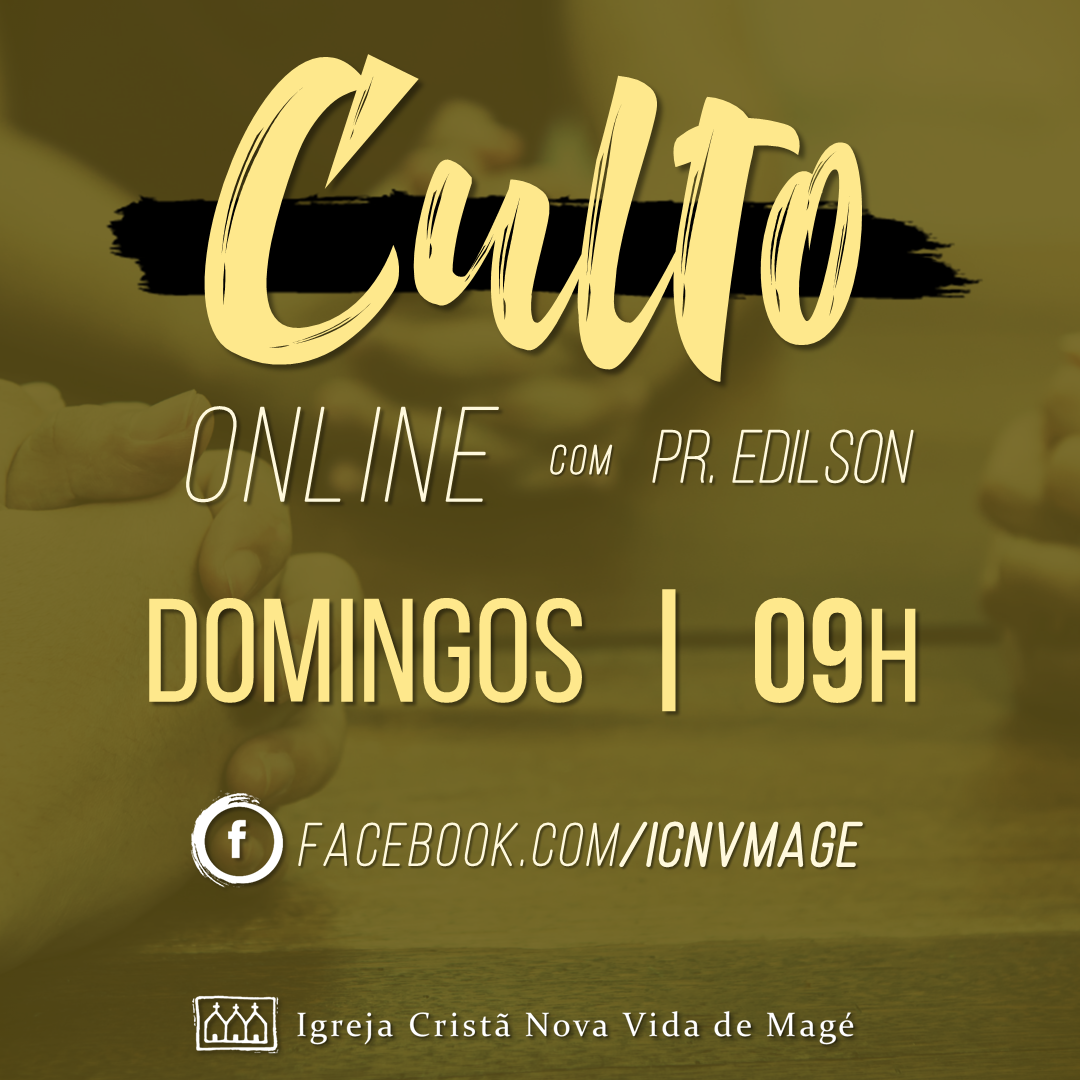
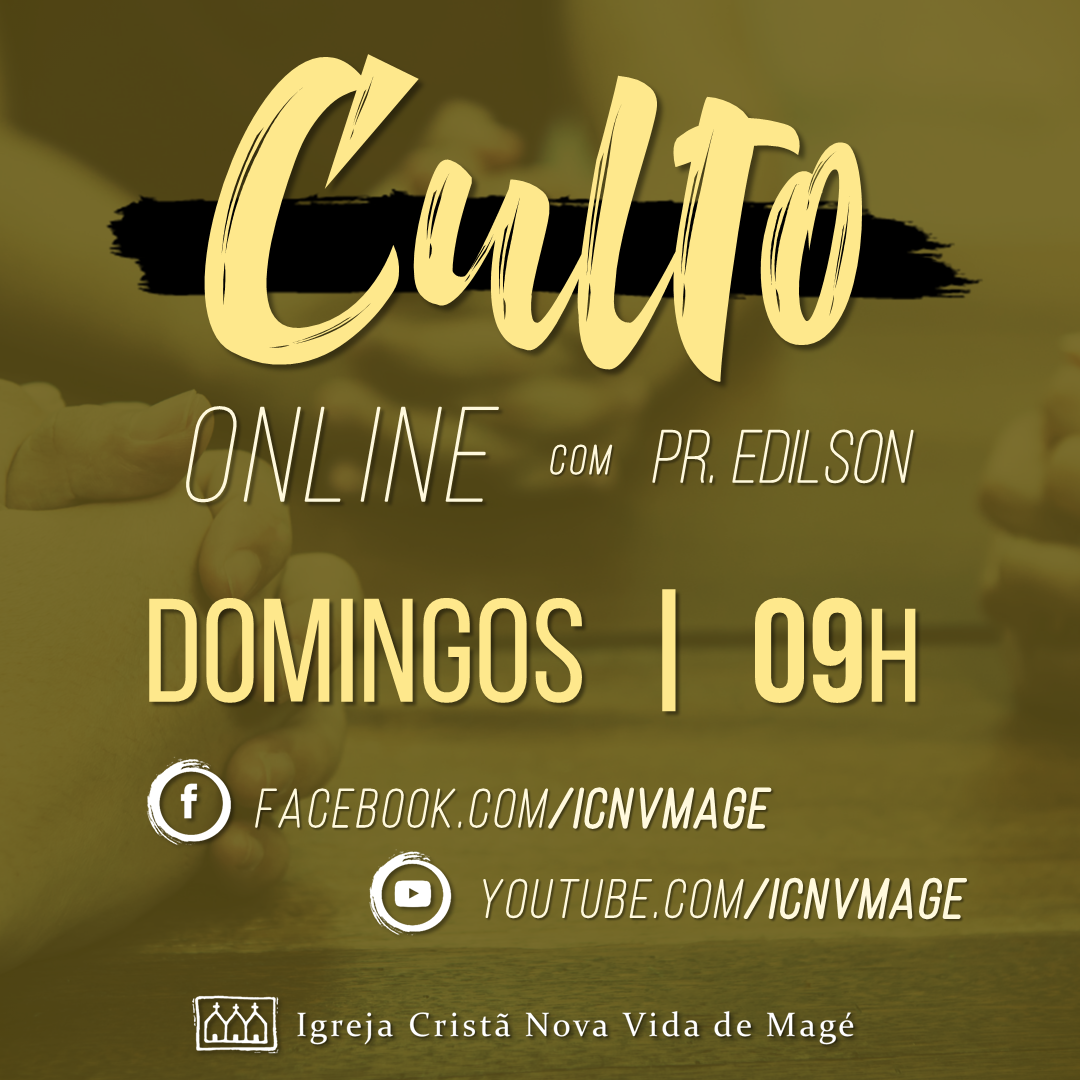
feat: Atualização dos cards news

Changed region(s): [[0.1222, 0.7028, 0.8861, 0.8861]]

diff --git a/novidades.html b/novidades.html
@@ -65,8 +65,9 @@
                             <h4 class="text-left cursor-auto">Cultos <br> Online</h4>
                             <p>Fique ligado nos nossos cultos online.</p>
                             <div style="margin-top: 2rem;">
-                                <a href="https://www.facebook.com/icnvmage/videos/" target="_blank"
-                                    class="contactform-submit novidades"><i class="fa fa-facebook-official mr-2"></i>
+                                <a href="https://www.youtube.com/playlist?list=PL78e91iZsvCFRTlD1BU6DtRtjbw4io54U"
+                                    target="_blank" class="contactform-submit novidades"><i
+                                        class="fa fa-youtube mr-2"></i>
                                     Acessar</a>
                             </div>
                         </div>
@@ -82,8 +83,9 @@
                             <h4 class="text-left cursor-auto">Cultos Dominicais <br> Matutinos</h4>
                             <p>Nas manhãs de domingo estamos aprendendo mais da Palavra de Deus.</p>
                             <div style="margin-top: 2rem;">
-                                <a href="https://www.facebook.com/icnvmage/videos/" target="_blank"
-                                    class="contactform-submit novidades"><i class="fa fa-facebook-official mr-2"></i>
+                                <a href="https://www.youtube.com/playlist?list=PL78e91iZsvCGddBYeFg48MhOGG0tJXUth"
+                                    target="_blank" class="contactform-submit novidades"><i
+                                        class="fa fa-youtube mr-2"></i>
                                     Acessar</a>
                             </div>
                         </div>
@@ -99,8 +101,9 @@
                             <h4 class="text-left cursor-auto">Cultos Dominicais <br> Noturnos</h4>
                             <p>Nas noites de domingo estamos louvando ao Senhor.</p>
                             <div style="margin-top: 2rem;">
-                                <a href="https://www.facebook.com/icnvmage/videos/" target="_blank"
-                                    class="contactform-submit novidades"><i class="fa fa-facebook-official mr-2"></i>
+                                <a href="https://www.youtube.com/playlist?list=PL78e91iZsvCG8tKeCLzAejxQPIwniRBUj"
+                                    target="_blank" class="contactform-submit novidades"><i
+                                        class="fa fa-youtube mr-2"></i>
                                     Acessar</a>
                             </div>
                         </div>
@@ -116,8 +119,9 @@
                             <h4 class="text-left cursor-auto">Cultos <br> Quinta-Feira</h4>
                             <p>Nas noites de quinta-feira estamos louvando ao Senhor.</p>
                             <div style="margin-top: 2rem;">
-                                <a href="https://www.facebook.com/icnvmage/videos/" target="_blank"
-                                    class="contactform-submit novidades"><i class="fa fa-facebook-official mr-2"></i>
+                                <a href="https://www.youtube.com/playlist?list=PL78e91iZsvCGClZPXIQOerX2rHGjMivwT"
+                                    target="_blank" class="contactform-submit novidades"><i
+                                        class="fa fa-youtube mr-2"></i>
                                     Acessar</a>
                             </div>
                         </div>

diff --git a/js/main.js b/js/main.js
@@ -39,6 +39,10 @@ function igp() {
   
     <p style="line-height: 1.5rem;">Sugerimos um aplicativo que conta histórias bíblicas e tem atividades. Clique no link abaixo para acessar <i class="fa fa-hand-o-down"></i></p> 
   
-    <p style="line-height: 1.5rem;"><a href="https://apps.apple.com/br/app/app-dab%C3%ADblia-para-crian%C3%A7as/id668692393">App da Bíblia para Crianças da Life.Church</a></p>`,
+    <p style="line-height: 1.5rem;">
+    <a href="https://apps.apple.com/br/app/app-dab%C3%ADblia-para-crian%C3%A7as/id668692393"><i class="fa fa-apple mr-1"></i> App da Bíblia para Crianças da Life.Church para iOS</a></p>
+    
+    <p style="line-height: 1.5rem;">
+    <a href="https://play.google.com/store/apps/details?id=com.bible.kids&hl=pt_BR"><i class="fa fa-android mr-1"></i> App da Bíblia para Crianças da Life.Church para Android</a></p>`,
   });
 }

diff --git a/ministerios.html b/ministerios.html
@@ -81,7 +81,7 @@
             </p>
             <aside class="accordion" id="accordion" data-aos="fade-down">
 
-                <h1>Escola Bíblica Dominical<i style="float: right;" class="fa fa-chevron-down link"></i></h1>
+                <h1>Escola Bíblica Dominical<i style="float: right;" class="fa fa-chevron-down"></i></h1>
                 <div>
                     <h2>Missão<i style="float: right;" class="fa fa-chevron-down"></i></h2>
                     <p class="text-left">

diff --git a/js/accordion.js b/js/accordion.js
@@ -16,7 +16,7 @@ $(".accordion").click(function (e) {
     $(allAtDepth).slideUp("fast");
 
     subItem.slideToggle("fast", function () {
-      $(".accordion :visible:last").css("border-radius", "0 0 10px 10px");
+      $(".accordion :visible:last");
     });
     $(target).css({
       "border-bottom-right-radius": "0",
